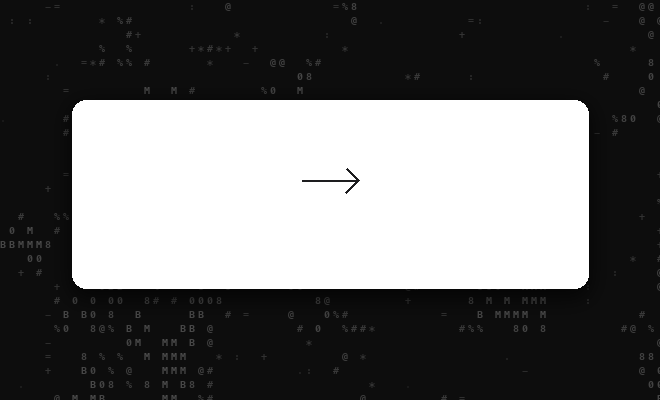
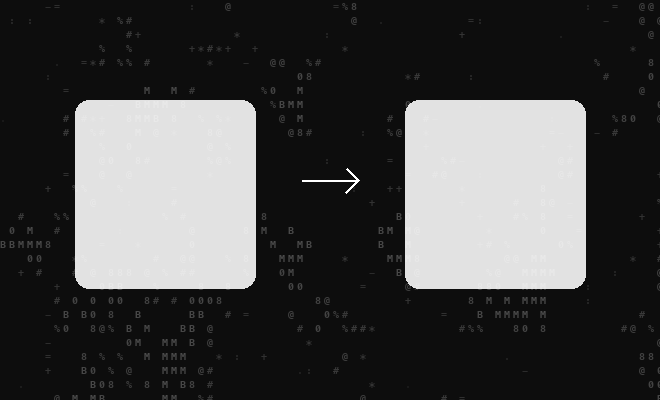
DMG: two translucent cards, white arrow; focus the editor after a ⌘K view switch too

diff --git a/NewMediaWriter/Editor/EditorTextView.swift b/NewMediaWriter/Editor/EditorTextView.swift
@@ -37,7 +37,8 @@ final class EditorTextView: NSTextView, NSLayoutManagerDelegate, NSTextStorageDe
         guard takesFocusOnAppear, let window else { return }
         DispatchQueue.main.async { [weak self, weak window] in
             guard let self, let window, self.window === window else { return }
-            if window.firstResponder is NSTextView { return }
+            // Another document/card editor keeps focus; a closing ⌘K picker (field editor) does not.
+            if window.firstResponder is EditorTextView { return }
             window.makeFirstResponder(self)
         }
     }

diff --git a/scripts/make-dmg-background.py b/scripts/make-dmg-background.py
@@ -3,20 +3,22 @@
 
 The window is WIDTH x HEIGHT points (see scripts/build-dmg.sh, which positions the app icon and the
 Applications link on either side of the arrow drawn here). Dark ASCII field (same look as the share card
-and launch video) with a white card behind the icon row: Finder always draws icon labels in black, so the card
-is what keeps "New Media Writer" / "Applications" readable, and it gives the arrow a quiet place to sit.
+and launch video) with a translucent white card behind each icon: Finder always draws icon labels in black, so the
+cards are what keep "New Media Writer" / "Applications" readable; a white arrow sits between them.
 """
 import os
 import random
-from PIL import Image, ImageDraw, ImageFilter, ImageFont
+from PIL import Image, ImageDraw, ImageFont
 
 WIDTH, HEIGHT = 660, 400
 ARROW_Y = 180          # vertical centre of the icons (build-dmg.sh uses the same value)
 ARROW_LEN, HEAD, STROKE = 56, 12, 2
 BG = (13, 13, 13)
-CARD = (72, 100, 588, 288)  # rounded white card; icons (128pt) + Finder labels fall inside it
+# Two translucent white cards, one per icon (128pt icon + Finder label inside); the arrow sits between them.
+CARDS = [(75, 100, 255, 288), (405, 100, 585, 288)]
 CARD_RADIUS = 14
-ARROW_COLOR = (29, 29, 31)
+CARD_ALPHA = 224
+ARROW_COLOR = "white"
 CW, CH = 9, 14         # glyph cell (points)
 RAMP = ". . . : : - = + * # % @ 8 0 B M".split()
 OUT = os.path.join(os.path.dirname(__file__), "..", "dmg")
@@ -51,12 +53,12 @@ def render(scale):
             a = 0.10 + 0.32 * n
             v = int(13 + a * 150)
             d.text((x * scale, y * scale), ch, font=font, fill=(v, v, v))
-    shadow = Image.new("RGBA", img.size, (0, 0, 0, 0))
-    ImageDraw.Draw(shadow).rounded_rectangle([(CARD[0] - 2) * scale, (CARD[1] + 4) * scale, (CARD[2] + 2) * scale, (CARD[3] + 10) * scale],
-                                             radius=(CARD_RADIUS + 2) * scale, fill=(0, 0, 0, 170))
-    img.paste(shadow.filter(ImageFilter.GaussianBlur(10 * scale)), (0, 0), shadow.filter(ImageFilter.GaussianBlur(10 * scale)))
+    overlay = Image.new("RGBA", img.size, (0, 0, 0, 0))
+    od = ImageDraw.Draw(overlay)
+    for card in CARDS:
+        od.rounded_rectangle([v * scale for v in card], radius=CARD_RADIUS * scale, fill=(255, 255, 255, CARD_ALPHA))
+    img = Image.alpha_composite(img.convert("RGBA"), overlay).convert("RGB")
     d = ImageDraw.Draw(img)
-    d.rounded_rectangle([v * scale for v in CARD], radius=CARD_RADIUS * scale, fill="white")
     cx, cy = WIDTH / 2, ARROW_Y
     x0, x1 = (cx - ARROW_LEN / 2) * scale, (cx + ARROW_LEN / 2) * scale
     y, w = cy * scale, STROKE * scale
